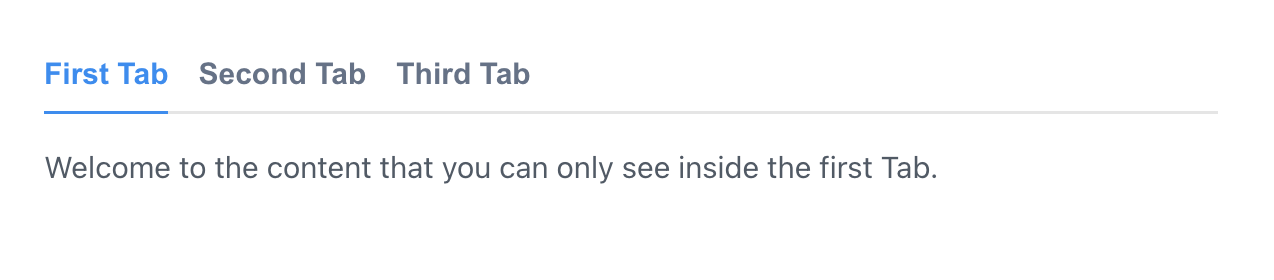
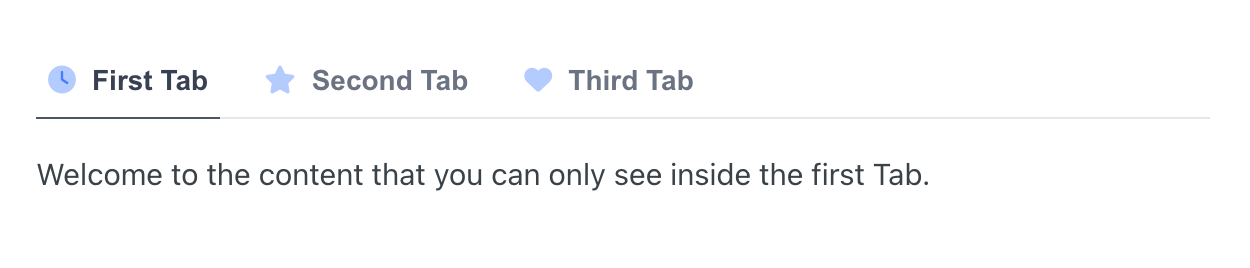
cleanup

Changed region(s): [[0.0312, 0.5373, 0.7488, 0.7164], [0.0312, 0.209, 0.5616, 0.3582], [0.0312, 0.3881, 0.9672, 0.4478]]

diff --git a/components/Tabs/readme.md b/components/Tabs/readme.md
@@ -10,13 +10,13 @@ Tabs can be used to organize content into sections where only one is visible at 
 
 ```mdx
 <Tabs>
-  <Tab title="First Tab">
+  <Tab title="First Tab" icon="fa-clock" iconColor="blue-500">
     Welcome to the content that you can only see inside the first Tab.
   </Tab>
-  <Tab title="Second Tab">
+  <Tab title="Second Tab" icon="fa-star" iconColor="blue-500">
     Here's content that's only inside the second Tab.
   </Tab>
-  <Tab title="Third Tab">
+  <Tab title="Third Tab" icon="fa-heart" iconColor="blue-500">
     Here's content that's only inside the third Tab.
   </Tab>
 </Tabs>
